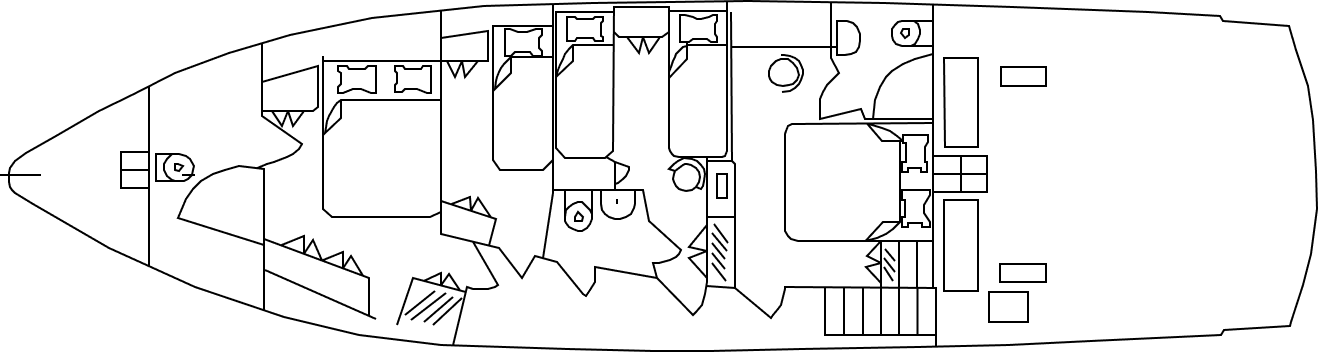
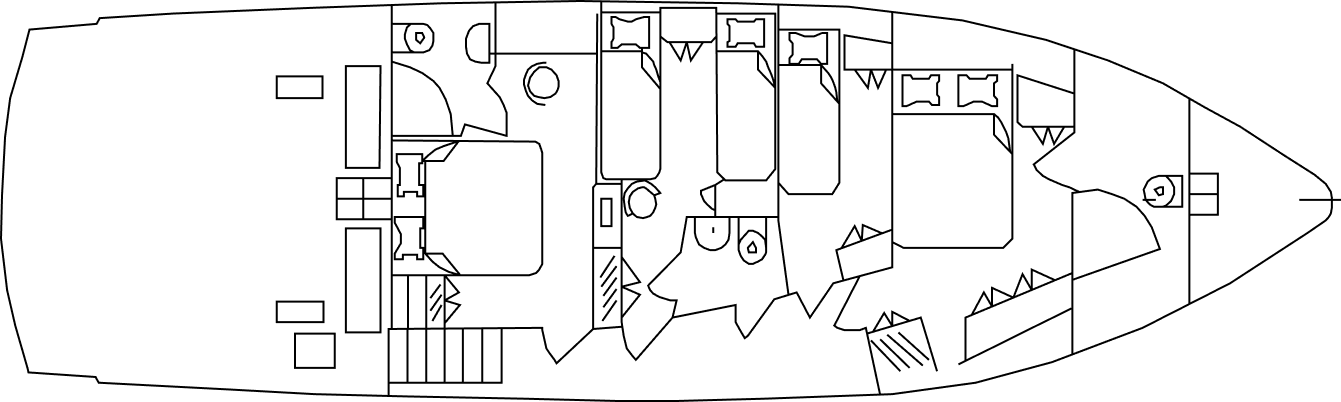
Пилигрим: hide story section, trim lead, rewrite overview (deck-by-deck para 1 with bolds, new technical para 2), add floor plans

diff --git a/js/boats-data.js b/js/boats-data.js
@@ -635,17 +635,17 @@ const BOATS = [
         { name: "вид сверху", items: [] }
       ]
     } },
-  { id: "piligrim",  family: "korabli", name: "Пилигрим",   status: "sold", year: "2007", img: "pilgrim.jpg?v=3", cardImg: "pilgrim-card.jpg?v=3", tags: ["На заказ"], noInteriors: true,
+  { id: "piligrim",  family: "korabli", name: "Пилигрим",   status: "sold", year: "2007", img: "pilgrim.jpg?v=3", cardImg: "pilgrim-card.jpg?v=3", tags: ["На заказ"], noInteriors: true, noStory: true,
     photos: { hero2: "pilgrim-2.jpg?v=2", overview: "pilgrim-overview.jpg", construction: "pilgrim-story.jpg?v=2",
-      plans: ["pilgrim-plan-side.png","pilgrim-plan-main.png","pilgrim-plan-lower.png"] },
+      plans: ["pilgrim-plan-side.png?v=2","pilgrim-plan-main.png?v=2","pilgrim-plan-lower.png?v=2"] },
     content: {
       eyebrow: "Круизное моторное судно",
       desc: "Моторная яхта",
       heroSpecs: [["Длина","18 м"],["Мощность","270 л.с."],["Вместимость","12 человек"],["Дальность","1300 миль"]],
-      overviewLead: "Стальная моторная яхта 18 метров с открытым флайбриджем — водоизмещающий корпус, автономность на несколько суток и дальность до 1300 миль",
+      overviewLead: "Стальная моторная яхта с открытым флайбриджем и дальностью до 1300 миль",
       overviewBody: [
-        "18 метров при ширине 5 — стальной корпус (5-4-3 мм) водоизмещающего типа с осадкой всего 0,9 метра. Два уровня плюс открытый флайбридж: салон с панорамным остеклением, камбуз, каюты и зоны отдыха на палубе — места для двенадцати человек.",
-        "Два дизельных двигателя по 135 л.с. — 270 сил суммарно, крейсерские 16 км/ч и максимум 20 км/ч. Запас топлива 3,5 тонны и 500 литров пресной воды дают автономность 3,5 суток и дальность до 1300 миль вдали от причала."
+        "Пилигрим — это трёхпалубная яхта. <span style=\"font-weight:600\">Верхняя палуба: открытая лаунж-зона</span> и солярий с лежаками для загара. <span style=\"font-weight:600\">Главная палуба: жилая зона с рубкой капитана</span>; кают-компания и столовая объединены в одном помещении, а камбуз расположен отдельно. <span style=\"font-weight:600\">Нижняя палуба — это спальная зона</span> с четырьмя каютами и санузлами.",
+        "Стальной корпус водоизмещающего типа собран из листа 5-4-3 мм. При длине 18 метров и ширине 5 осадка составляет всего 0,9 метра. Два дизельных двигателя по 135 л.с. дают суммарно 270 сил: максимальная скорость 20 км/ч, крейсерская 16 км/ч. Запас топлива 3,5 тонны и 500 литров пресной воды обеспечивают автономность 3,5 суток и дальность до 1300 миль вдали от причала."
       ],
       storyLead: "",
       storyBody: ["",""],

diff --git a/boat.html b/boat.html
@@ -271,7 +271,7 @@
     </div>
   </footer>
 
-  <script src="js/boats-data.js?v=522"></script>
+  <script src="js/boats-data.js?v=528"></script>
   <script src="js/boat.js?v=76"></script>
   <script src="js/contact-modal.js?v=2"></script>
   <script src="js/booklet-modal.js?v=3"></script>
